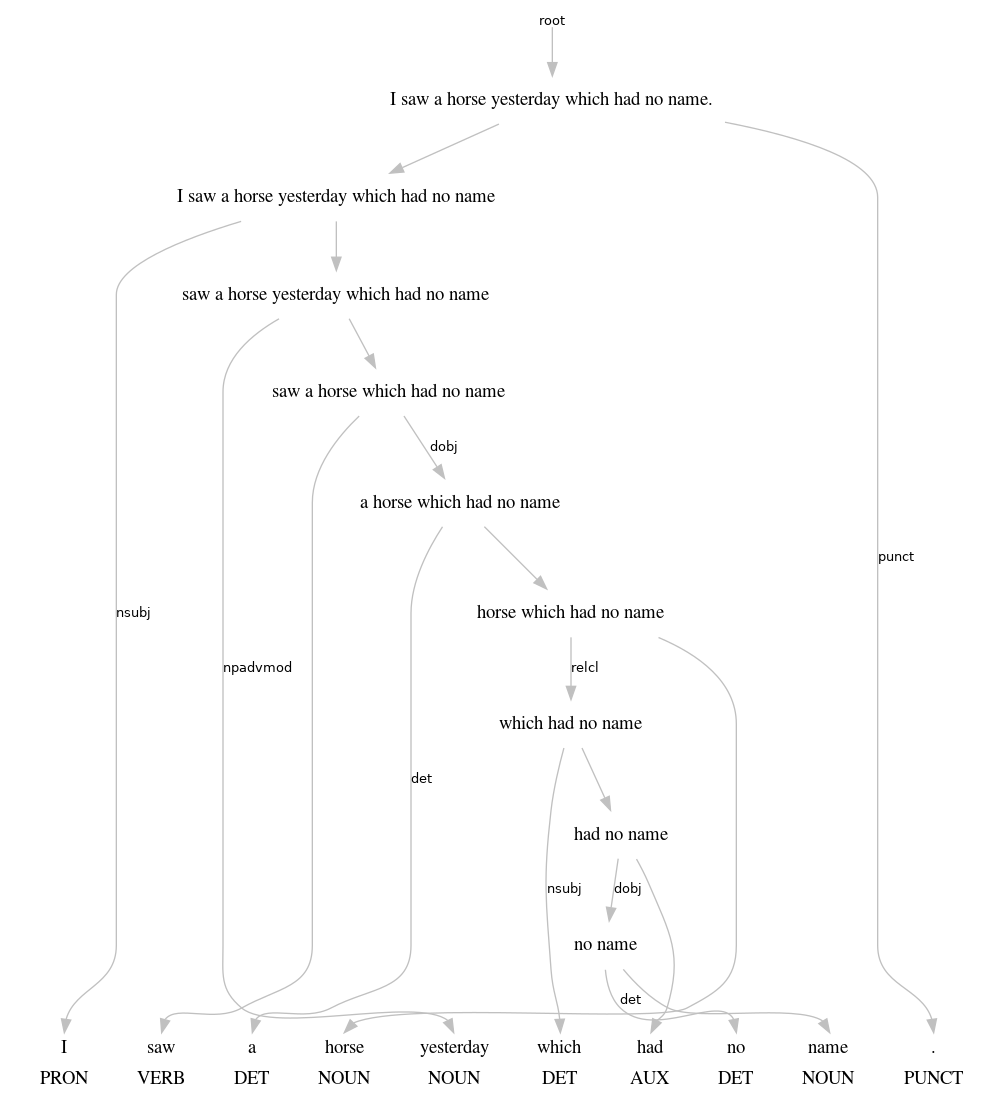
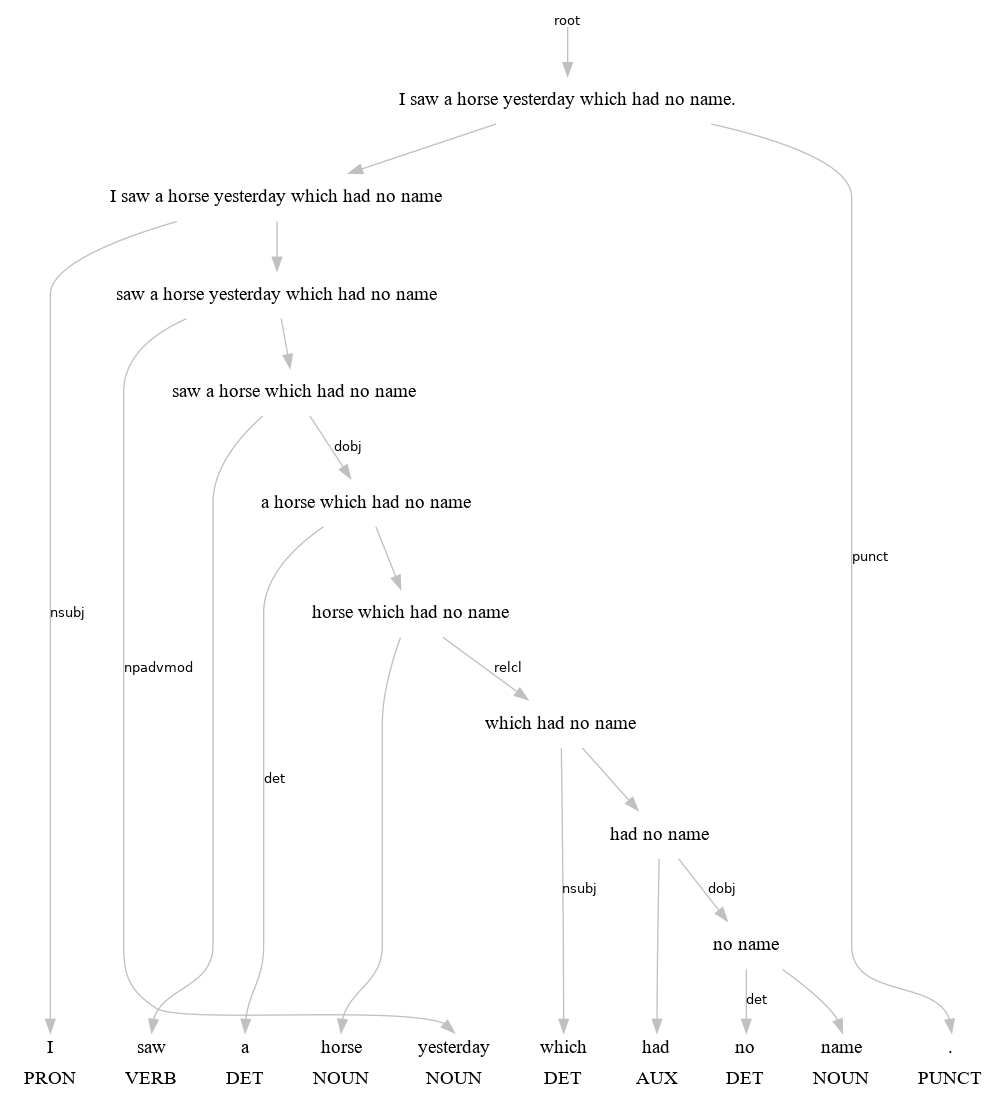
deplacy.dot improved

diff --git a/deplacy/deplacy.py b/deplacy/deplacy.py
@@ -229,25 +229,24 @@ def dot(doc):
   s='digraph deplacy{\n'
   s+='node[shape=plaintext;fontsize=14];\n'
   s+='edge[color=gray,fontname="sans-serif",fontsize=10];\n'
-  s+='word[shape=record,penwidth=0,label="';
+  t='word[shape=record,penwidth=0,label="';
   v=[]
   j=''
   for i in range(len(DOC)):
-    s+=j+'|{<'+str(i+1)+'>'
+    t+=j+'|{<'+str(i+1)+'>'
     j=DOC[i].orth_
     if j in ['"','|','{','}','<','>','\\']:
-      s+='\\'+j
+      t+='\\'+j
       v.append('\\'+j)
     elif j!='_':
-      s+=j
+      t+=j
       v.append(j)
-    s+='|'+DOC[i].pos_+'}'
+    t+='|'+DOC[i].pos_+'}'
     j='|'
-  s+='"];\n'
+  t+='"];\n'
   c=[[i] for i in range(len(DOC))]
   n=["word:"+str(i+1) for i in range(len(DOC))]
   x=1
-  t=''
   for i in w:
     for j in f[i]:
       t='x'+str(x)+'->'+n[j]+'[label="'+DOC[j].dep_+'"];\n'+t
